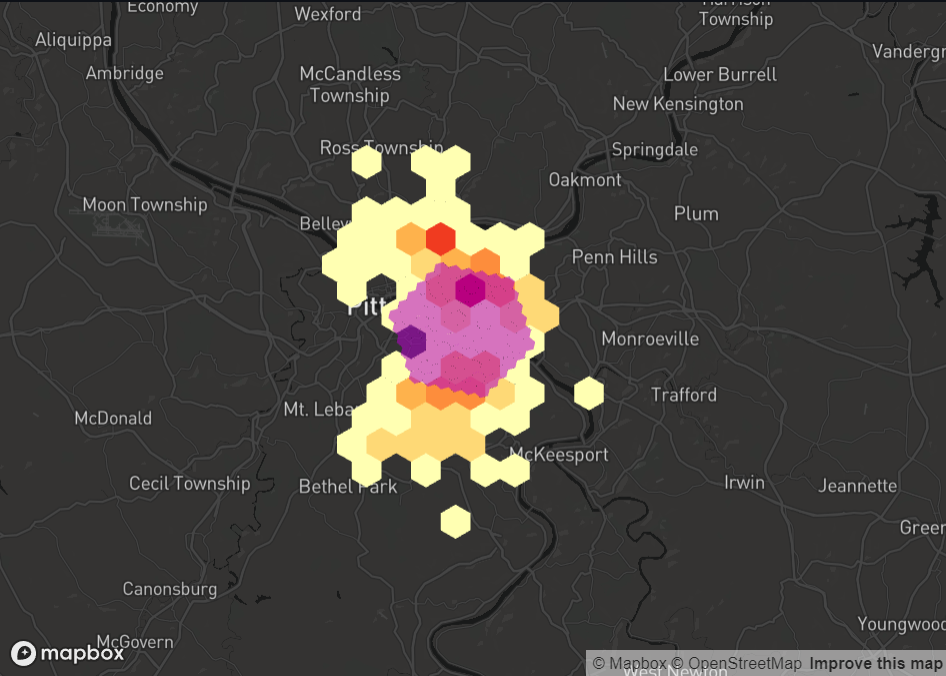
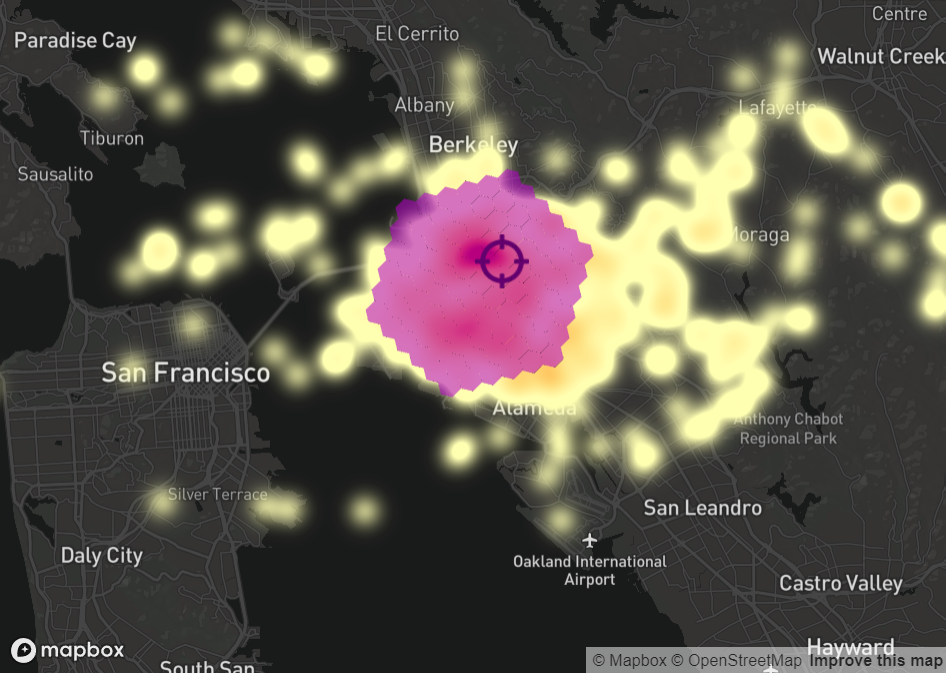
still playing with best visualization, trying crosshairs + heatmap

diff --git a/app.py b/app.py
@@ -225,17 +225,49 @@ def monte_carlo_trilateration(X: pd.DataFrame, witness_coords: list, model, hots
         )
 
     if show_predictions:
+        # fig.layers.append(
+            # pdk.Layer(
+            #     'HexagonLayer',
+            #     data=monte_carlo_results,
+            #     get_position='[lon, lat]',
+            #     radius=1206,
+            #     elevation_scale=4,
+            #     elevation_range=[0, 1000],
+            #     # get_fill_color=[180, 0, 200, 140],
+            #     pickable=True,
+            #     extruded=False,
+            # )
         fig.layers.append(
             pdk.Layer(
-                'HexagonLayer',
+                'HeatmapLayer',
                 data=monte_carlo_results,
                 get_position='[lon, lat]',
-                radius=1206,
-                elevation_scale=4,
-                elevation_range=[0, 1000],
-                # get_fill_color=[180, 0, 200, 140],
+                get_radius=200,
+                get_fill_color=[255, 255, 255, 140],  # Set an RGBA value for fill
+                pickable=True
+            )
+        )
+        best_guess = [{"lon": np.median(monte_carlo_results["lon"]),
+                       "lat": np.median(monte_carlo_results["lat"]),
+                       "icon_data": {
+                           "url": "https://cdn-icons-png.flaticon.com/512/59/59325.png",
+                           "width": 512,
+                           "height": 512,
+                           "anchorY": 512
+                       }}]
+
+        fig.layers.append(
+            pdk.Layer(
+                'IconLayer',
+                data=best_guess,
+                get_position='[lon, lat]',
+                get_icon='icon_data',
+                get_size=4,
+                size_scale=15,
+                # get_radius=500,
+                # get_fill_color=[0,0, 0],
                 pickable=True,
-                extruded=False,
+                # filled=True
             )
         )
 
@@ -249,6 +281,9 @@ def monte_carlo_trilateration(X: pd.DataFrame, witness_coords: list, model, hots
                 extruded=False
             )
         )
+
+
+
 
     return fig, monte_carlo_results
 
@@ -277,14 +312,15 @@ def bayesian_inference(gaming_dist, nominal_dist, outlier_df, prior: float = 0.1
     :param prior: The assumed ratio of overall gaming on the network
     :return:
     """
-    # find percentage of anomalous receipts (evidence)
-    E = len(outlier_df[outlier_df["classification"] < 0]) / len(outlier_df)
+    # find percentage of normal receipts (evidence)
+    E = len(outlier_df[outlier_df["classification"] > 0]) / len(outlier_df)
     # likelihood of evidence given gaming, P(E|G) (within 10%)
-    pe_g = len(gaming_dist[np.abs((gaming_dist["percent"] - E)) < 0.01]) / len(gaming_dist)
+    pe_g = len(gaming_dist[((1 - gaming_dist["percent"]) < E)]) / len(gaming_dist)
     # likelihood of evidence given nominal, P(E|~G) (within 10%)
-    pe_n = len(nominal_dist[np.abs((nominal_dist["percent"] - E)) < 0.01]) / len(nominal_dist)
+    pe_n = len(nominal_dist[((1 - nominal_dist["percent"]) < E)]) / len(nominal_dist)
     # solve for posterior
-    pg_e = 1 / (1 + (1 / prior - 1) * (pe_n / pe_g))
+    # pg_e = 1 / (1 + ((1 / prior) - 1) * (pe_n / pe_g))
+    pg_e = pe_g * prior / pe_n
     return pg_e
 
 
@@ -330,13 +366,13 @@ if run_button:
             with st.expander("About this Chart"):
                 st.markdown("[**Multi-trilateration**](https://en.wikipedia.org/wiki/True-range_multilateration)"
                             " is a mathematical technique for geo locating a point given its known distances from two other points."
-                            "In this implementation, we use topographic and signal-quality features to predict a hotspot's true location based on its "
+                            " In this implementation, we use topographic and signal-quality features to predict a hotspot's true location based on its "
                             "witness data. Specifically, these features are fed into a trained machine learning model to predict distances from "
                             "beaconer to witness before solving the trilateration problem in a monte carlo simulation. The more witness data we have,"
                             "the better the prediction.")
-                st.markdown("In these charts, we plot a heatmap of those predicted locations (brown->red heatmap)"
-                            "and compare it to the hotspot's asserted location (pink hexes). The more spread you see in the trilateration solutions,"
-                            "the more likely a hotspot is spoofing their location or witness activity.")
+                st.markdown("In these charts, we plot a heatmap of those predicted locations and a crosshair icon signifying the median prediction (i.e. our \"best guess\")."
+                            " Compare these results to the hotspot's asserted location (pink hexes). The more spread and higher error you see in the trilateration solutions,"
+                            " the more likely a hotspot is spoofing their location or witness activity.")
                 st.image("static/assets/spoofer-ex.png", caption="A likely spoofer with a broad confidence interval in the trilateration solutions.")
                 st.image("static/assets/known-good-ex.png", caption="A nominal hotspot, where most solutions lie near the asserted location.")
 
@@ -386,5 +422,6 @@ if run_button:
             st.plotly_chart(plot_distance_vs_rssi(outliers_df))
 
         except (ValueError, TypeError, AQLFetchError):
-            st.error("Error processing simulation. This likely means that we have not loaded any valid witness data for this hotspot yet.")
+            st.error("Error processing simulation. This likely means that we have not loaded any valid witness data for this hotspot yet. "
+                     "The model only considers individual transmit paths under 100km.")
 

diff --git a/arango_queries.py b/arango_queries.py
@@ -23,7 +23,6 @@ def get_witnesses_for_hotspot(db: Database, address: str, limit: int = 1000):
     aql = f"""
             let hotspot = DOCUMENT('hotspots/{address}')
             for v, e, p in 1..1 inbound hotspot poc_receipts
-                filter e.is_valid
                 collect beaconer = e._from, witness = e._to into witnessPair = {{
                     distance_m: GEO_DISTANCE(DOCUMENT(e._from).location_geo, DOCUMENT(e._to).location_geo),
                     coords_beacon: DOCUMENT(e._from).location_geo.coordinates,
@@ -55,7 +54,6 @@ def get_witnesses_of_hotspot(db: Database, address: str, limit: int = 1000):
     aql = f"""
             let hotspot = DOCUMENT('hotspots/{address}')
             for v, e, p in 1..1 outbound hotspot poc_receipts
-                filter e.is_valid
                 collect beaconer = e._from, witness = e._to into witnessPair = {{
                     distance_m: GEO_DISTANCE(DOCUMENT(e._from).location_geo, DOCUMENT(e._to).location_geo),
                     coords_beacon: DOCUMENT(e._from).location_geo.coordinates,

diff --git a/feature_extraction.py b/feature_extraction.py
@@ -57,7 +57,7 @@ def process_witness_paths(witness_paths: List[dict], dataset: DatasetReader, ele
         # get topographic features
         try:
             features = extract_topographic_features(d_vec, elev_vec)
-        except np.linalg.LinAlgError:
+        except (np.linalg.LinAlgError, SystemError):
             # hotspots are too close to create elevation profile
             continue
 
